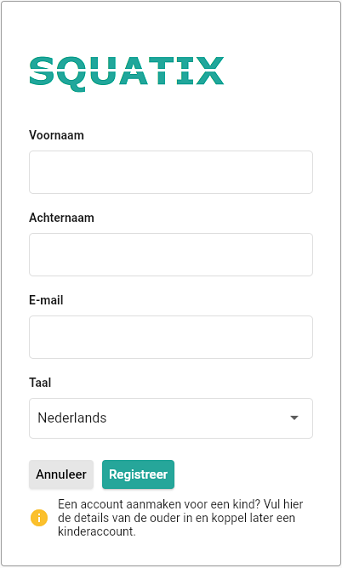
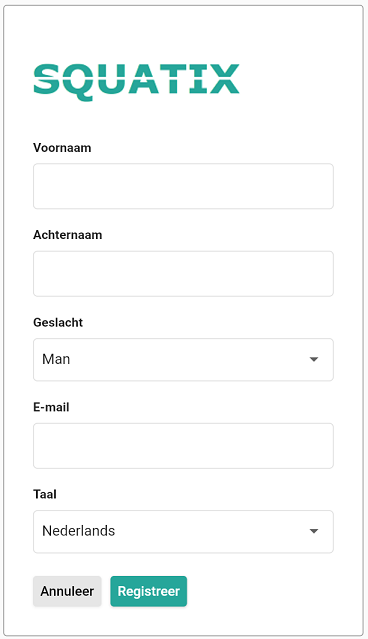
changes
Changes

diff --git a/docs/user/sign-up.md b/docs/user/sign-up.md
@@ -38,14 +38,4 @@ In te vullen info:
 - E-mail
 - Taal 
 
-**Opgelet:** Indien de applicatie zal gebruikt worden voor een kind dat lid is van een club en waarbij de ouder het profiel wenst op te volgen, vul dan bij het registreren de informatie van de
-ouder in. Voor het kind kan laten een kindprofiel opgezet worden (zie [Kindprofiel aanmaken](profile.md#kindprofiel-aanmaken))
-
 ![sign in](/assets/images/register.png)
-
-### E-mail verificatie
-
-De laatste stap in het opzetten van een profiel is het verifiëren van het opgegeven e-mailadres. Via mail ontvang je een code, vul deze in en jouw profiel is klaar. Indien je in de vorige stap
-een verkeerd e-mailadres ingevuld hebt kan je het hier nog aanpassen door op "aanpassen" te klikken.
-
-![verify mail](/assets/images/email_verification.png)

diff --git a/docs/user/profile.md b/docs/user/profile.md
@@ -18,6 +18,7 @@ nav_order: 3
 
 ## Profiel opzetten
 
+Alvorens je jezelf bij een club kan aansluiten of vooraleer je een club kan aanmaken die je jouw profiel te vervolledigen.
 Om jouw profiel aan te passen klik op "Profiel". Volgende data zijn aanpasbaar:
 - Profielfoto
 - Adres
@@ -25,6 +26,7 @@ Om jouw profiel aan te passen klik op "Profiel". Volgende data zijn aanpasbaar:
 - Nationaliteit
 - Geslacht
 - Taal (Nederlands, Frans, Engels)
+- E-mail (deze dient geverifieerd te worden net na registratie of na aanpassing van het emailadres)
 
 ## Kindprofiel aanmaken
 
